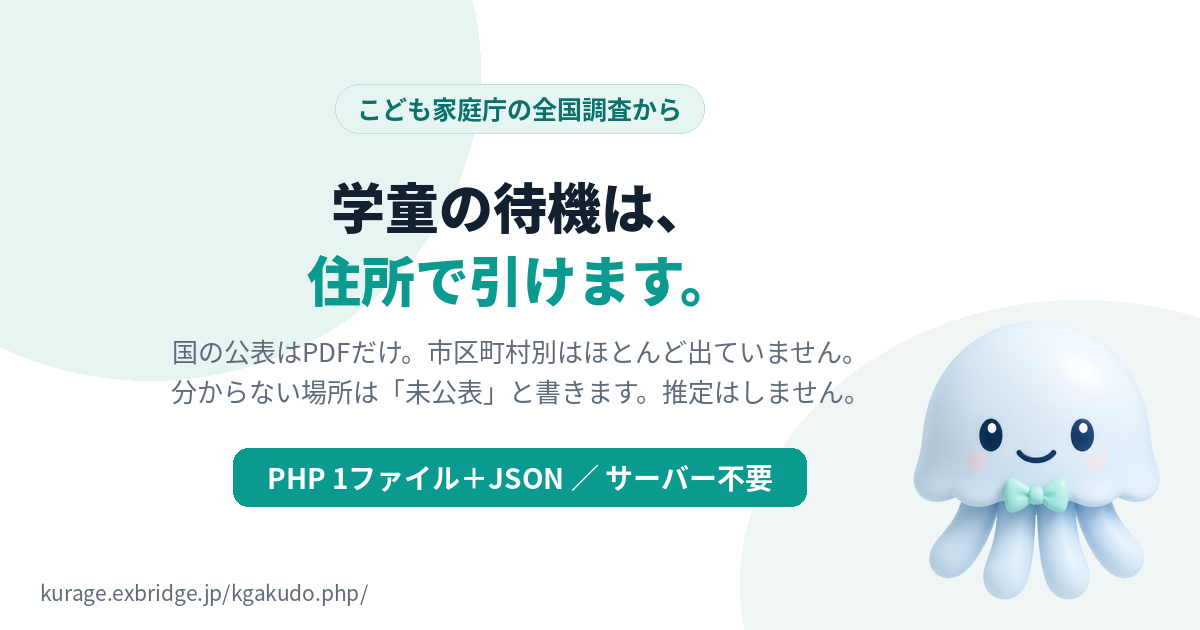
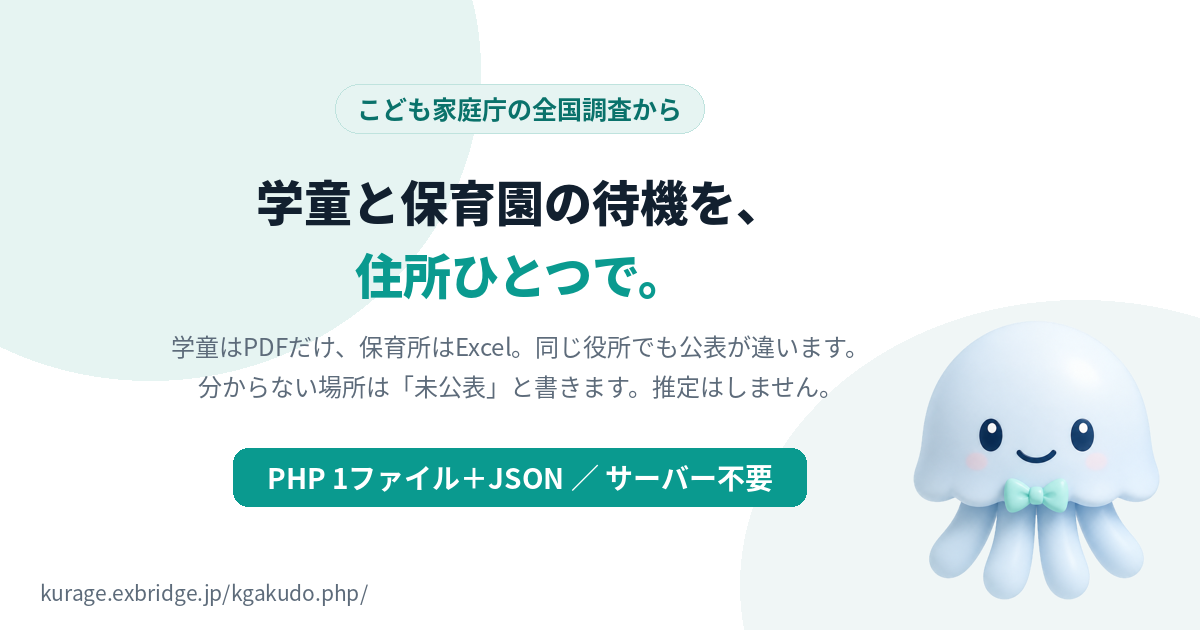
商品画像・デモのOGPを「学童と保育園」に差し替え

Changed region(s): [[0.2158, 0.2714, 0.6475, 0.4825], [0.1233, 0.5127, 0.7092, 0.6635]]

diff --git a/scripts/make_store_image.py b/scripts/make_store_image.py
@@ -21,17 +21,17 @@ if os.path.exists(MASCOT):
     mascot = mascot.resize((int(mascot.width * mh / mascot.height), mh))
 cx = 520 if mascot else W // 2
 f_badge = ImageFont.truetype(FM, 25)
-f_h = ImageFont.truetype(FB, 54)
-f_s = ImageFont.truetype(FR, 26)
+f_h = ImageFont.truetype(FB, 48)
+f_s = ImageFont.truetype(FR, 24)
 f_band = ImageFont.truetype(FM, 28)
 badge = 'こども家庭庁の全国調査から'
 bw = dr.textlength(badge, font=f_badge) + 44
 dr.rounded_rectangle([cx - bw / 2, 84, cx + bw / 2, 133], radius=24, fill='#e6f4f2', outline='#bfe3de')
 dr.text((cx, 108), badge, font=f_badge, fill='#0a726b', anchor='mm')
-dr.text((cx, 205), '学童の待機は、', font=f_h, fill='#12202f', anchor='mm')
-dr.text((cx, 278), '住所で引けます。', font=f_h, fill='#0a9a8f', anchor='mm')
-dr.text((cx, 350), '国の公表はPDFだけ。市区町村別はほとんど出ていません。', font=f_s, fill='#5d6b7a', anchor='mm')
-dr.text((cx, 390), '分からない場所は「未公表」と書きます。推定はしません。', font=f_s, fill='#5d6b7a', anchor='mm')
+dr.text((cx, 200), '学童と保育園の待機を、', font=f_h, fill='#12202f', anchor='mm')
+dr.text((cx, 273), '住所ひとつで。', font=f_h, fill='#0a9a8f', anchor='mm')
+dr.text((cx, 345), '学童はPDFだけ、保育所はExcel。同じ役所でも公表が違います。', font=f_s, fill='#5d6b7a', anchor='mm')
+dr.text((cx, 385), '分からない場所は「未公表」と書きます。推定はしません。', font=f_s, fill='#5d6b7a', anchor='mm')
 bt = 'PHP 1ファイル＋JSON ／ サーバー不要'
 bw2 = dr.textlength(bt, font=f_band) / 2 + 34
 dr.rounded_rectangle([cx - bw2, 448, cx + bw2, 506], radius=15, fill='#0a9a8f')
